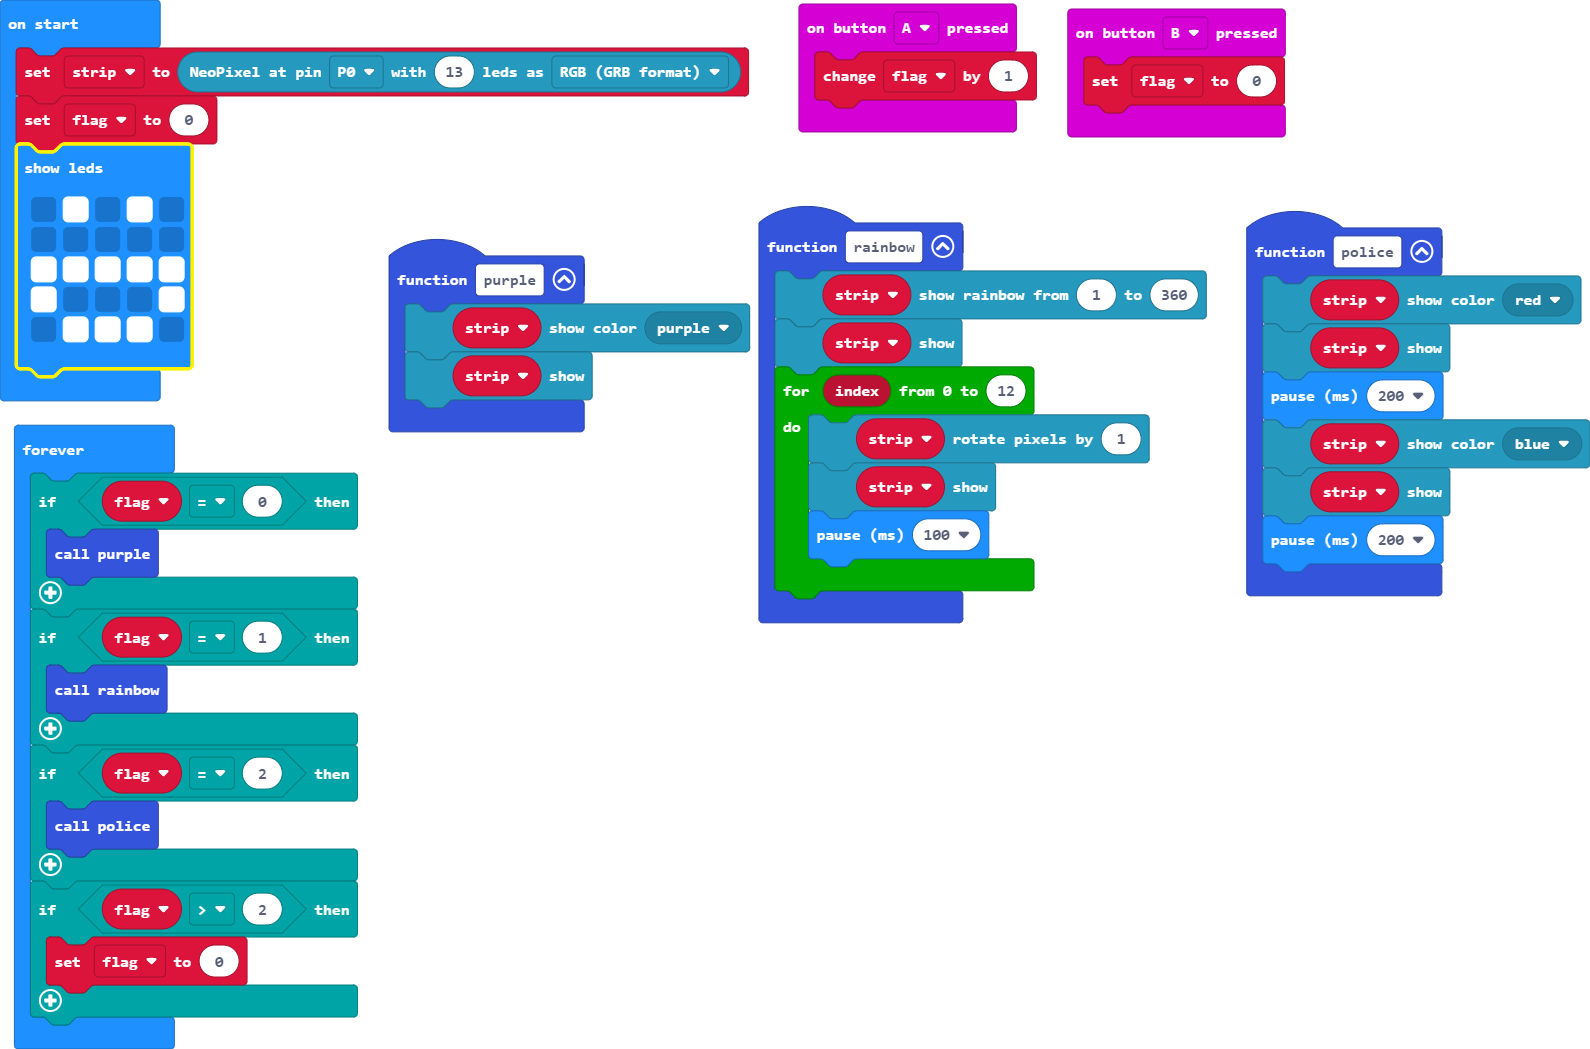
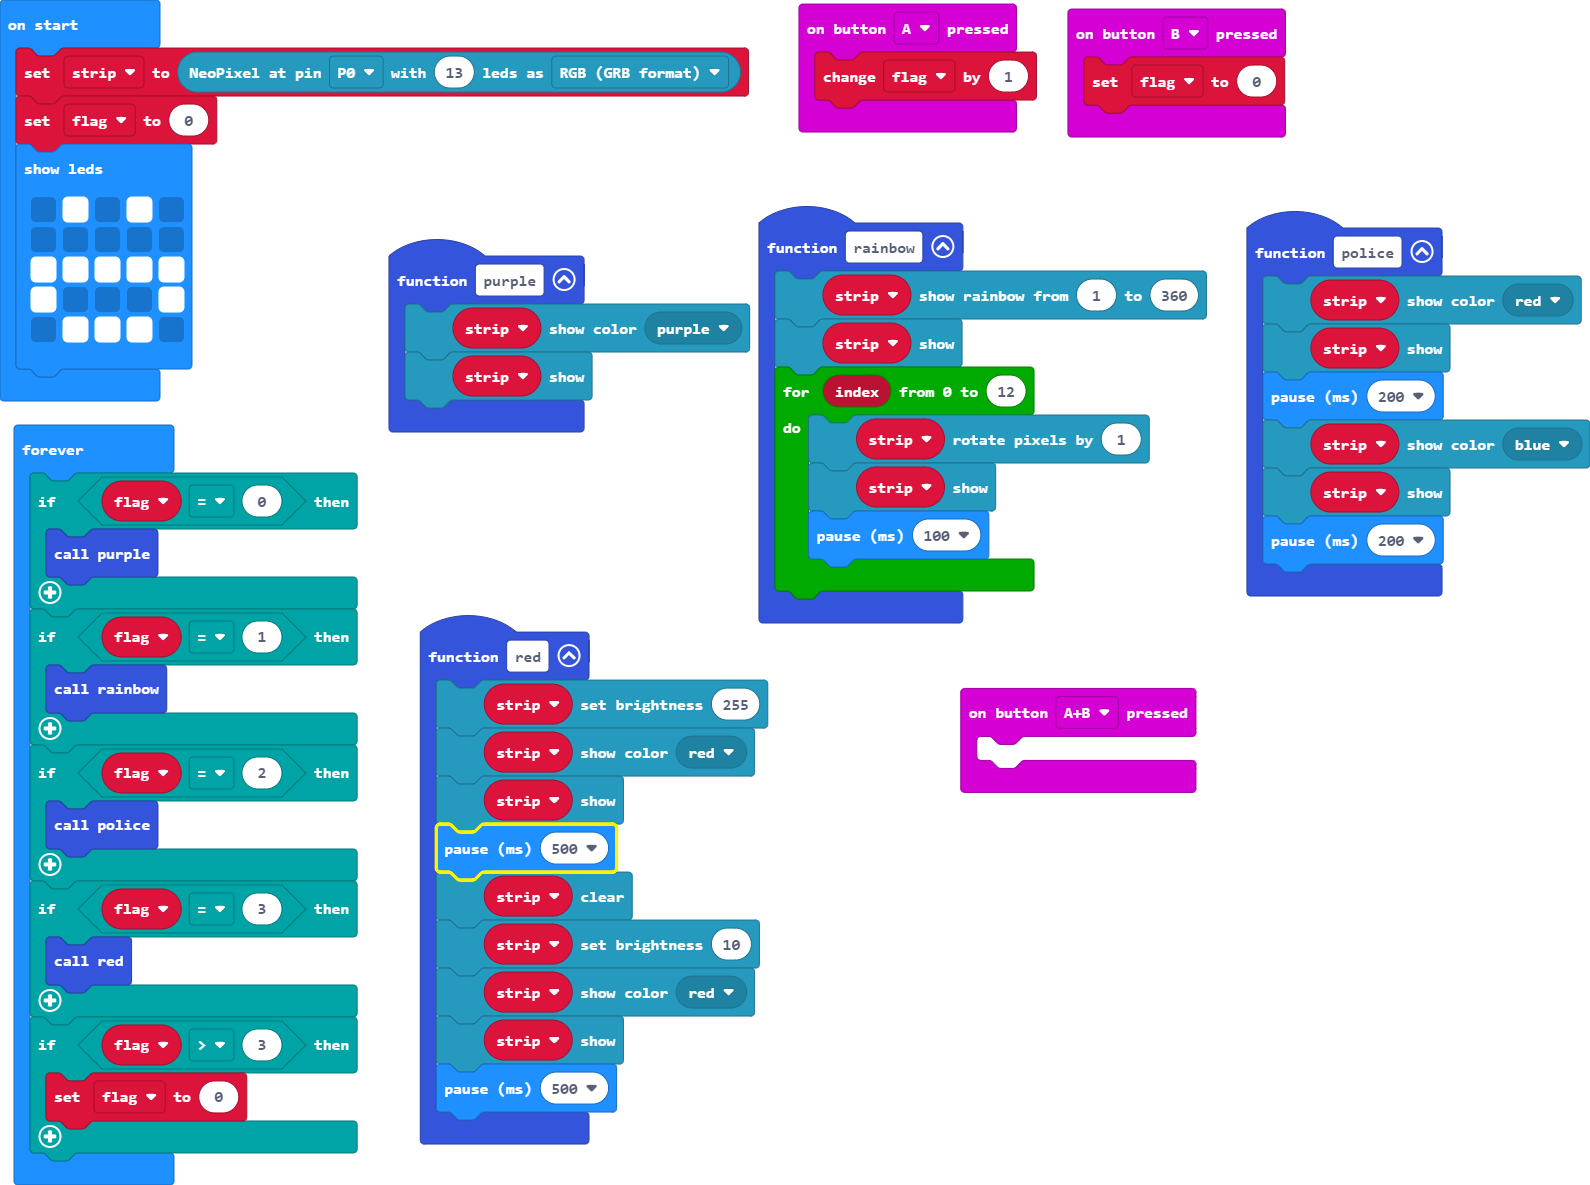
Update main.blocks, main.ts

diff --git a/main.ts b/main.ts
@@ -14,9 +14,23 @@ function rainbow () {
         basic.pause(100)
     }
 }
+input.onButtonPressed(Button.AB, function () {
+	
+})
 input.onButtonPressed(Button.B, function () {
     flag = 0
 })
+function red () {
+    strip.setBrightness(255)
+    strip.showColor(neopixel.colors(NeoPixelColors.Red))
+    strip.show()
+    basic.pause(500)
+    strip.clear()
+    strip.setBrightness(10)
+    strip.showColor(neopixel.colors(NeoPixelColors.Red))
+    strip.show()
+    basic.pause(500)
+}
 function police () {
     strip.showColor(neopixel.colors(NeoPixelColors.Red))
     strip.show()
@@ -46,7 +60,10 @@ basic.forever(function () {
     if (flag == 2) {
         police()
     }
-    if (flag > 2) {
+    if (flag == 3) {
+        red()
+    }
+    if (flag > 3) {
         flag = 0
     }
 })
